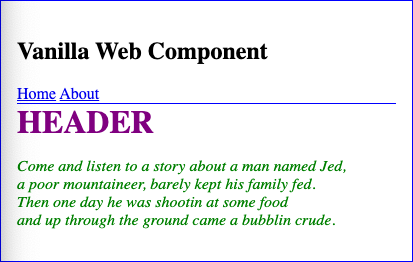
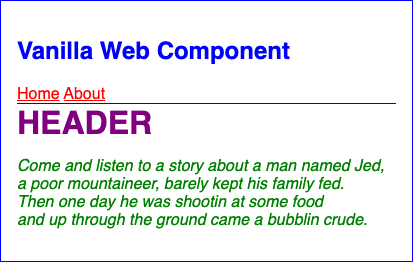
more Web Components

Changed region(s): [[0.0, 0.0, 0.9298, 1.0]]

diff --git a/src/web-components.md b/src/web-components.md
@@ -470,6 +470,15 @@ In the example from the previous section,
 - `<span slot="title">Title #1</span>` is in the light DOM
 - `<section class="card">` is in the shadow DOM
 
+## Inheritable Styles
+
+CSS defines many styles that are inherited by descendant elements.
+Examples include `color`, `font`, `font-family`, and `font-weight`.
+
+When these styles are applied to ancestor elements of web components,
+they will be applied to elements in the shadow DOM of the web components
+unless the web components override them.
+
 ## Slots and Parts
 
 A web component can render HTML that includes slots and parts.
@@ -546,6 +555,13 @@ The following HTML demonstrates using the web component defined above.
   <head>
     <title>Web Component Demo</title>
     <style>
+      /* This specifies inheritable styles that will be
+         used by web components unless overridden. */
+      body {
+        color: blue;
+        font-family: sans-serif;
+      }
+
       /* This targets the part named "header" in the web component. */
       vanilla-wc::part(header) {
         color: purple;
